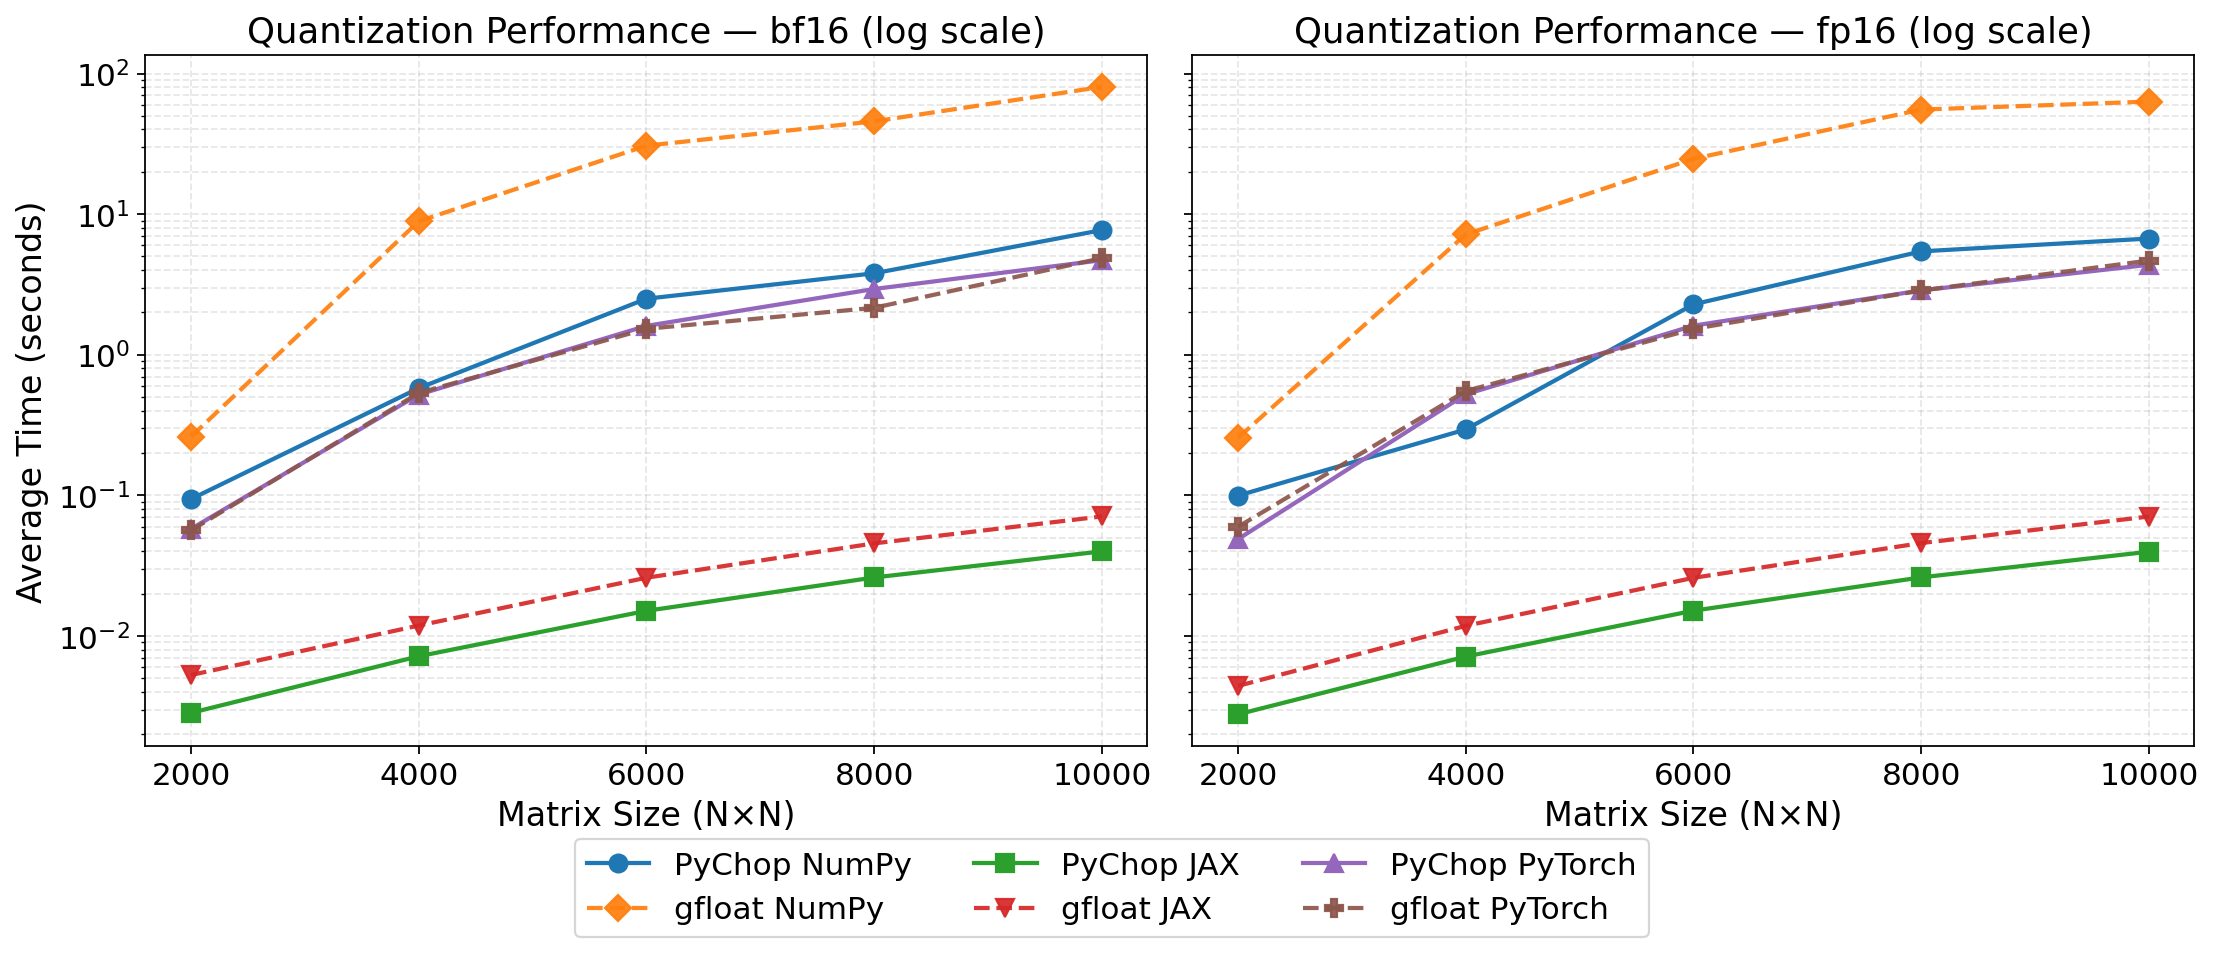
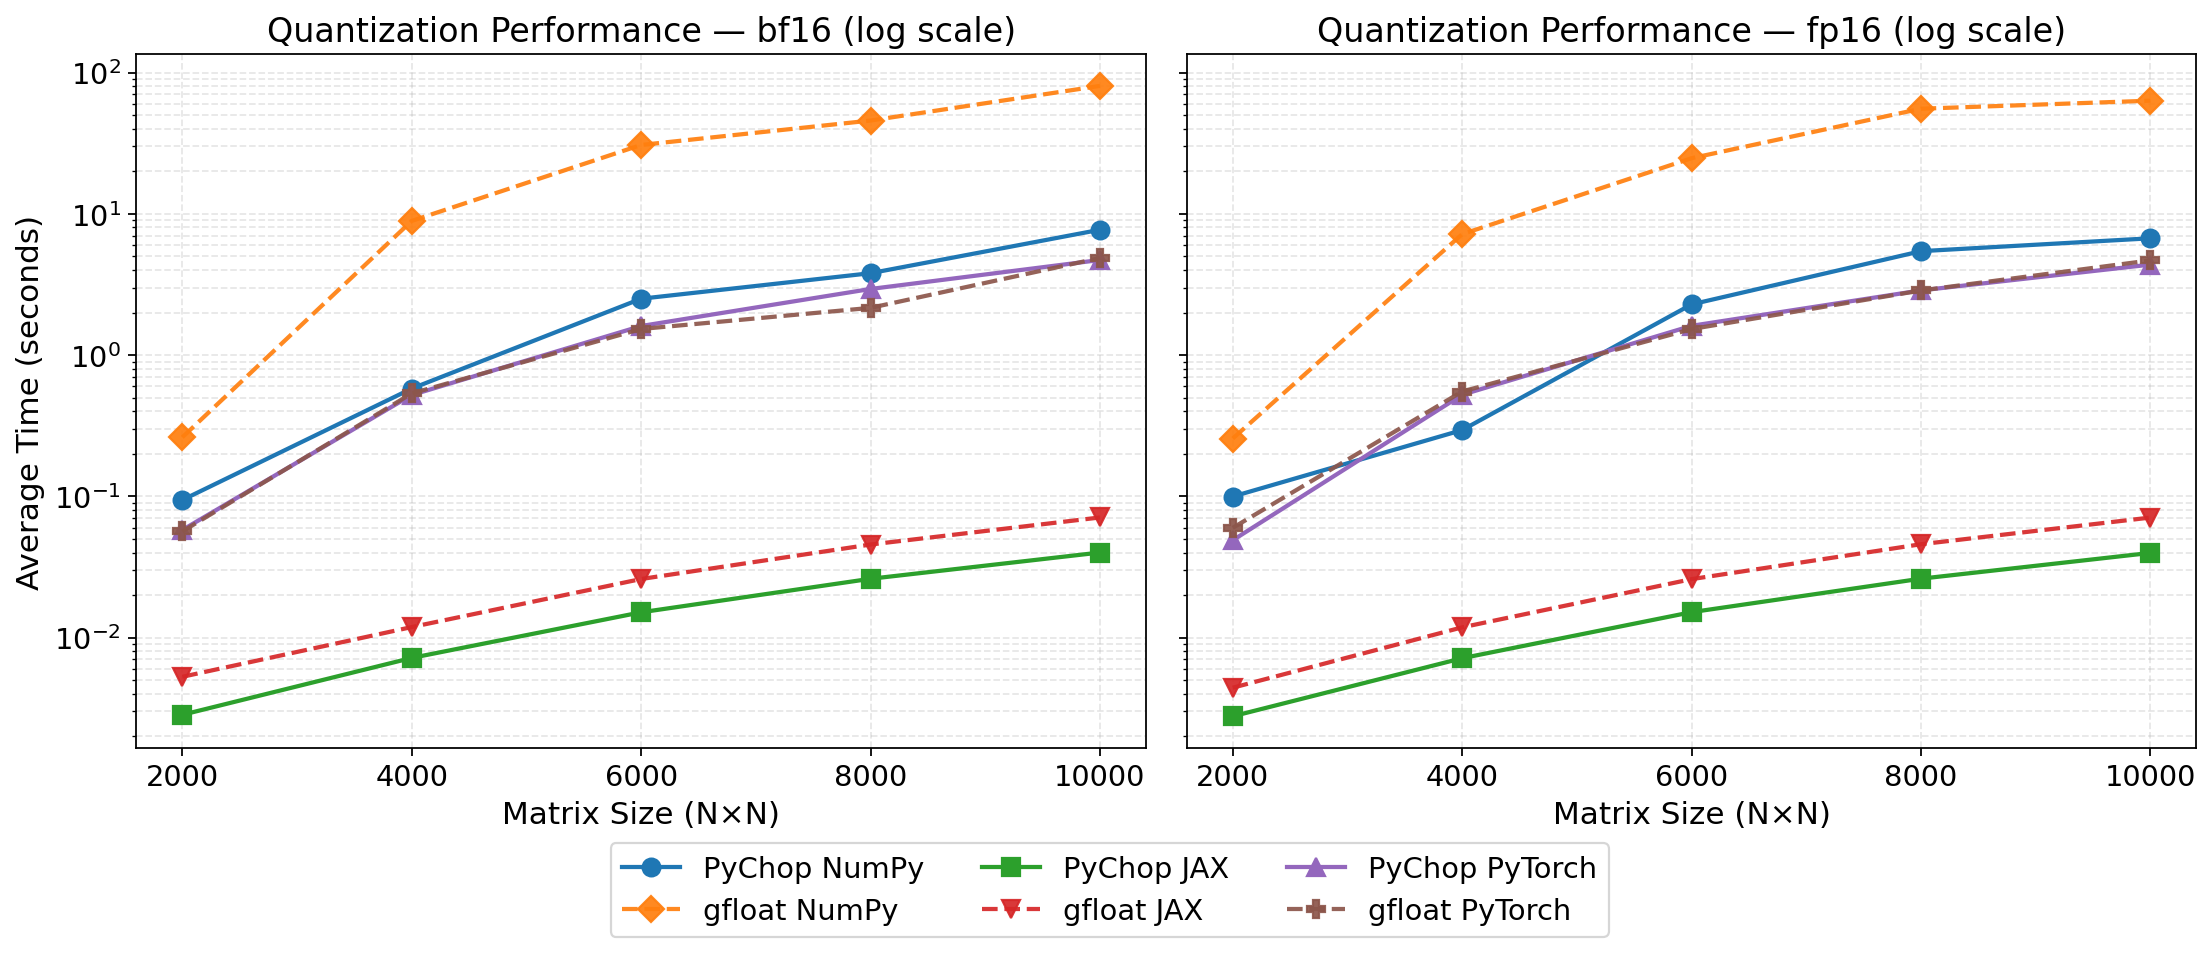
update plots

diff --git a/exps/compare_gfloat_plot.py b/exps/compare_gfloat_plot.py
@@ -34,7 +34,7 @@ for fmt in formats:
 # shared legend placed at the bottom center
 # ────────────────────────────────────────────────
 
-fontsize = 15
+fontsize = 14
 linewidth = 1.9
 markers = ['o', 's', '^', 'D', 'v', 'P']
 linestyles = ['-', '--', '-.']
